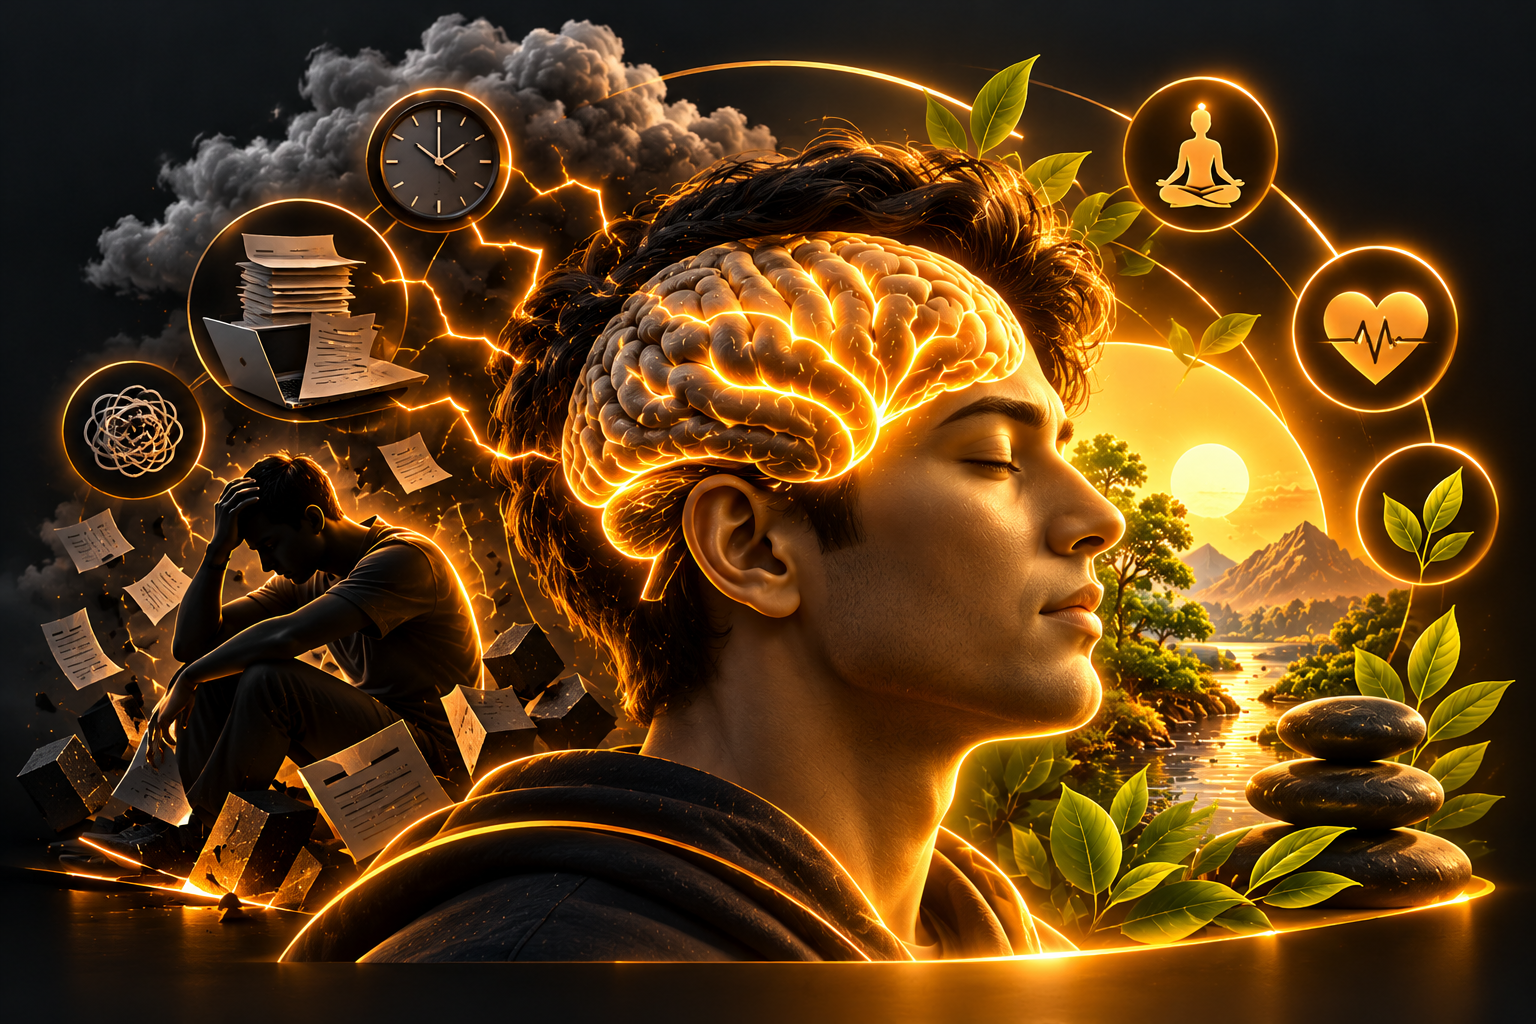
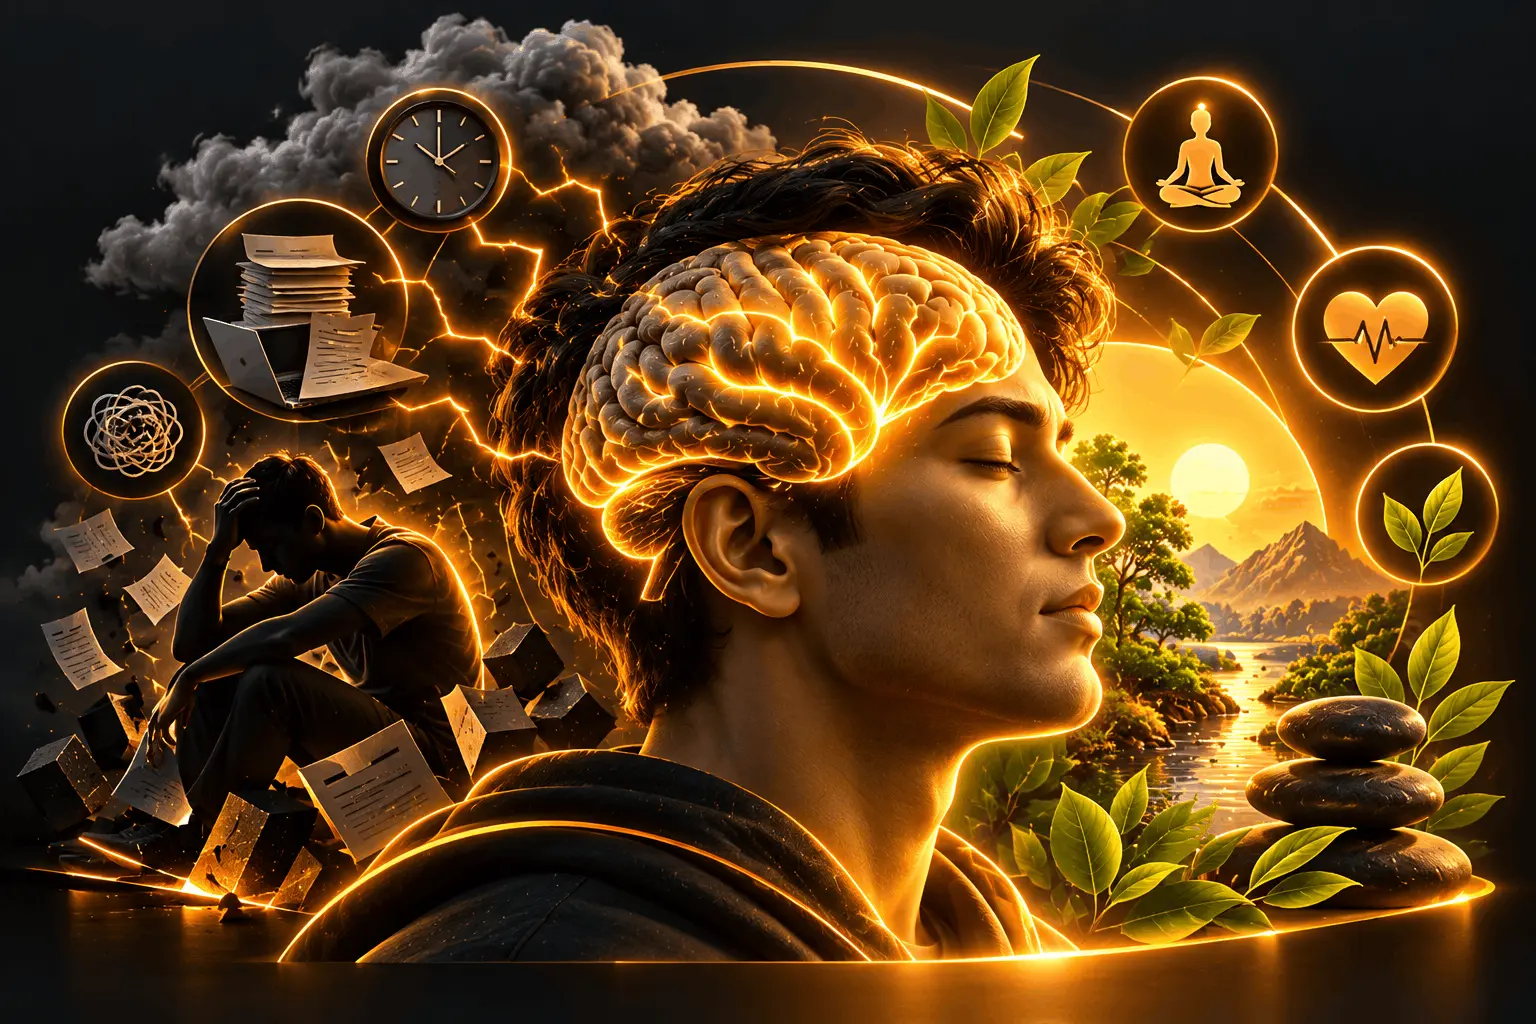
image-optimization-ui-fixes

diff --git a/index.html b/index.html
@@ -20,8 +20,8 @@
 <meta name="theme-color" content="#101010" />
 <link rel="manifest" href="/manifest.json" />
 <link rel="icon" href="/favicon.ico" sizes="any" />
-<link rel="icon" type="image/png" href="/assets/mooc-mastery-icon.png" />
-<link rel="apple-touch-icon" href="/assets/mooc-mastery-icon.png" />
+<link rel="icon" type="image/webp" href="/assets/mooc-mastery-icon.webp" />
+<link rel="apple-touch-icon" href="/assets/icon-192.png" />
 
 <meta name="description" content="Free NPTEL and SWAYAM MCQ practice with answer explanations, week-based question sets, timed mock tests, weak-question revision, bookmarks and a personal cheatsheet. No account required." />
 <meta name="keywords" content="NPTEL MCQ practice, free NPTEL MCQ practice, NPTEL mock test, SWAYAM practice questions, NPTEL assignment practice, NPTEL exam preparation, NPTEL MCQ with explanations, week-wise NPTEL practice, NPTEL revision cheatsheet, Joy of Computing using Python MCQ, Psychology of Learning NPTEL, Environment and Development NPTEL, Forests and Their Management MCQ, Wildlife Ecology NPTEL, Introduction to Internet of Things NPTEL, Understanding Incubation and Entrepreneurship NPTEL" />
@@ -41,7 +41,7 @@
 <meta property="og:title" content="Mooc Mastery — Free NPTEL MCQ Practice, Mock Tests & Explanations" />
 <meta property="og:description" content="Free NPTEL and SWAYAM MCQ practice with answer explanations, week-based sets, timed mock tests and revision tools. No account required." />
 <meta property="og:url" content="https://mooc-mastery.vercel.app/" />
-<meta property="og:image" content="https://mooc-mastery.vercel.app/assets/mooc-mastery-icon.png" />
+<meta property="og:image" content="https://mooc-mastery.vercel.app/assets/mooc-mastery-icon.webp" />
 <meta property="og:image:width" content="1200" />
 <meta property="og:image:height" content="1200" />
 <meta property="og:image:alt" content="Mooc Mastery — premium charcoal, ivory and amber logo" />
@@ -51,7 +51,7 @@
 <meta name="twitter:card" content="summary" />
 <meta name="twitter:title" content="Mooc Mastery — NPTEL MCQ Practice & Mock Tests 2026" />
 <meta name="twitter:description" content="Free NPTEL and SWAYAM MCQ practice with explanations, week-based sets, timed mock tests, weak-question revision and a personal cheatsheet. No sign-up." />
-<meta name="twitter:image" content="https://mooc-mastery.vercel.app/assets/mooc-mastery-icon.png" />
+<meta name="twitter:image" content="https://mooc-mastery.vercel.app/assets/mooc-mastery-icon.webp" />
 
 <!-- AEO hint -->
 <link rel="author" href="/llms.txt" />
@@ -3001,6 +3001,138 @@ br.report-mobile-break{display:none}
 }
 @media(prefers-reduced-motion:reduce){.xp-journey-controls .xp-nav-btn{transition:none}.xp-level-hero{animation:none}}
 
+
+
+/* Keep the course-guides link visually separated from the last subject card on small screens. */
+.course-guides-link {
+  display: flex;
+  flex-wrap: wrap;
+  align-items: center;
+  justify-content: center;
+  column-gap: 4px;
+  row-gap: 2px;
+  margin: 14px 0 28px;
+  padding: 0 8px;
+  font-size: var(--fs-sm);
+  line-height: 1.6;
+  text-align: center;
+  color: var(--muted);
+  overflow-wrap: anywhere;
+}
+.course-guides-link a {
+  color: var(--accent);
+  text-underline-offset: 4px;
+  white-space: normal;
+}
+@media (max-width: 420px) {
+  .course-guides-link {
+    margin-top: 16px;
+    margin-bottom: 24px;
+    padding-inline: 12px;
+    font-size: 13px;
+    line-height: 1.55;
+  }
+}
+
+/* Mobile UX refinement: readable community proof and a compact, scrollable XP level dialog. */
+.page.wrap .hero-proof-ticker {
+  box-sizing: border-box;
+  width: 100%;
+  max-width: 100%;
+  min-width: 0;
+}
+.page.wrap .hero-proof-item { min-width: 0; }
+.page.wrap .hero-proof-item > span { min-width: 0; }
+@media (max-width: 560px) {
+  .page.wrap .hero-proof-ticker {
+    justify-content: center;
+    gap: 0;
+    padding: 12px 14px;
+    border-radius: 14px;
+    text-align: center;
+  }
+  .page.wrap .hero-proof-item {
+    display: flex;
+    flex: 1 1 100%;
+    flex-direction: column;
+    align-items: center;
+    justify-content: center;
+    gap: 4px;
+    width: 100%;
+    max-width: 100%;
+    text-align: center;
+    line-height: 1.35;
+  }
+  .page.wrap .hero-proof-item strong {
+    display: block;
+    max-width: 100%;
+    white-space: normal;
+    overflow-wrap: anywhere;
+    font-size: clamp(14px, 4vw, 16px);
+    line-height: 1.25;
+  }
+  .page.wrap .hero-proof-item > span {
+    display: block;
+    max-width: 100%;
+    color: var(--text-2);
+    font-size: 12px;
+    line-height: 1.45;
+    overflow-wrap: anywhere;
+  }
+}
+@media (max-width: 360px) {
+  .page.wrap .hero-proof-ticker { padding: 11px 10px; }
+  .page.wrap .hero-proof-item > span { font-size: 11.5px; }
+}
+
+/* The general modal remains a full-height sheet on phones; the XP journey is intentionally a card. */
+.xp-level-overlay {
+  align-items: center;
+  justify-content: center;
+  padding: 12px;
+  overflow-y: auto;
+  overscroll-behavior: contain;
+}
+.xp-level-overlay .xp-level-modal {
+  width: min(600px, calc(100vw - 24px));
+  height: auto;
+  max-height: min(84dvh, 760px);
+  max-width: 600px;
+  flex: 0 1 auto;
+  align-self: center;
+  border-radius: 18px;
+  animation: modalIn var(--slow) var(--ease) both;
+}
+.xp-level-overlay .xp-journey-body {
+  flex: 1 1 auto;
+  min-height: 0;
+  overflow-y: auto;
+  overscroll-behavior: contain;
+  -webkit-overflow-scrolling: touch;
+}
+@media (max-width: 639px) {
+  .xp-level-overlay { padding: 12px; }
+  .xp-level-overlay .xp-level-modal {
+    width: calc(100vw - 24px);
+    height: min(78dvh, 660px);
+    max-height: calc(100dvh - 24px);
+    border-radius: 17px;
+  }
+  .xp-level-overlay .xp-level-modal .sheet-handle { display: none; }
+  .xp-level-overlay .xp-level-modal .modal-head { flex: 0 0 auto; }
+  .xp-level-overlay .xp-journey-body { padding: 11px !important; }
+}
+@media (max-width: 380px) {
+  .xp-level-overlay { padding: 10px; }
+  .xp-level-overlay .xp-level-modal {
+    width: calc(100vw - 20px);
+    height: min(80dvh, 600px);
+    max-height: calc(100dvh - 20px);
+    border-radius: 15px;
+  }
+  .xp-level-overlay .xp-journey-body { padding: 9px !important; }
+}
+
 </style>
 </head>
 <body>
@@ -3893,7 +4025,7 @@ function LandingPage({ subjects, onPick, banner }) {
         <div className="hero-top">
           <div className="hero-titlecol">
             <div className="hero-heading-row">
-              <img className="hero-heading-logo" src="/assets/mooc-mastery-icon.png" alt="Mooc Mastery logo" />
+              <img className="hero-heading-logo" src="/assets/mooc-mastery-icon.webp" alt="Mooc Mastery logo" />
               <h1>Master your NPTEL exams with focused MCQ practice</h1>
             </div>
           </div>
@@ -3902,7 +4034,7 @@ function LandingPage({ subjects, onPick, banner }) {
               Prepare for NPTEL and SWAYAM exams with free, course-wise MCQ practice. Choose a subject, work through questions by week, learn from answer explanations, and revisit tricky questions with revision drills, bookmarks and your personal cheatsheet. No sign-up is needed, and your practice progress stays in this browser.
             </p>
             <div className="hero-proof-ticker" aria-label="Mooc Mastery community">
-              <span className="hero-proof-item"><strong>Trusted by 1,600+ students</strong> from DTU, NSUT, VIT and more</span>
+              <span className="hero-proof-item"><strong>Trusted by 2,500+ students</strong><span>from DTU, NSUT, VIT and more</span></span>
             </div>
             <div className="hero-actions" aria-label="Start practising or install Mooc Mastery">
               <a className="hero-cta-card hero-browse" href="#subjects-heading" aria-label="Browse available courses">
@@ -3953,8 +4085,9 @@ function LandingPage({ subjects, onPick, banner }) {
           </div>
         )}
       </div>
-      <p style={{ margin: '-8px 0 28px', fontSize: 'var(--fs-sm)', textAlign: 'center', color: 'var(--muted)' }}>
-        Looking for course details? <a href="/courses/" style={{ color: 'var(--accent)', textUnderlineOffset: 4 }}>Explore all course guides</a>.
+      <p className="course-guides-link">
+        <span>Looking for course details?</span>{' '}
+        <a href="/courses/">Explore all course guides</a>.
       </p>
 
       <h2 className="section-title">Why Mooc Mastery</h2>
@@ -4856,7 +4989,7 @@ function XPLevelsModal({ totalXp, levels, onClose }) {
   const move=(delta)=>setActive(i=>Math.max(0,Math.min(lv.levels.length-1,i+delta)));
   const onTouchStart=(e)=>{touchStart.current=e.touches?.[0]?.clientX??null;};
   const onTouchEnd=(e)=>{if(touchStart.current==null)return;const dx=(e.changedTouches?.[0]?.clientX??touchStart.current)-touchStart.current;if(Math.abs(dx)>45)move(dx<0?1:-1);touchStart.current=null;};
-  return <Portal><div className="overlay" onClick={onClose}><div className="modal xp-level-modal" role="dialog" aria-modal="true" aria-labelledby="xp-level-title" onClick={e=>e.stopPropagation()}>
+  return <Portal><div className="overlay xp-level-overlay" onClick={onClose}><div className="modal xp-level-modal" role="dialog" aria-modal="true" aria-labelledby="xp-level-title" onClick={e=>e.stopPropagation()}>
     <div className="sheet-handle"/>
     <div className="modal-head"><div><h3 id="xp-level-title">Level Journey</h3><div className="tiny">15 ranks · 3,600 XP to the summit</div></div><button className="icon-btn" onClick={onClose} aria-label="Close"><Icon name="x" size={17}/></button></div>
     <div className="modal-body xp-journey-body">
@@ -5967,7 +6100,7 @@ function App() {
         <div className="wrap">
           <div className="topbar-in">
             <button className="brand" onClick={() => navigate('landing')} aria-label="Go to home">
-              <span className="brand-mark"><img src="/assets/mooc-mastery-icon.png" alt="" /></span>
+              <span className="brand-mark"><img src="/assets/mooc-mastery-icon.webp" alt="" /></span>
               <span className="brand-text">
                 <span className="brand-title">Mooc Mastery</span>
                 <span className="brand-sub">
